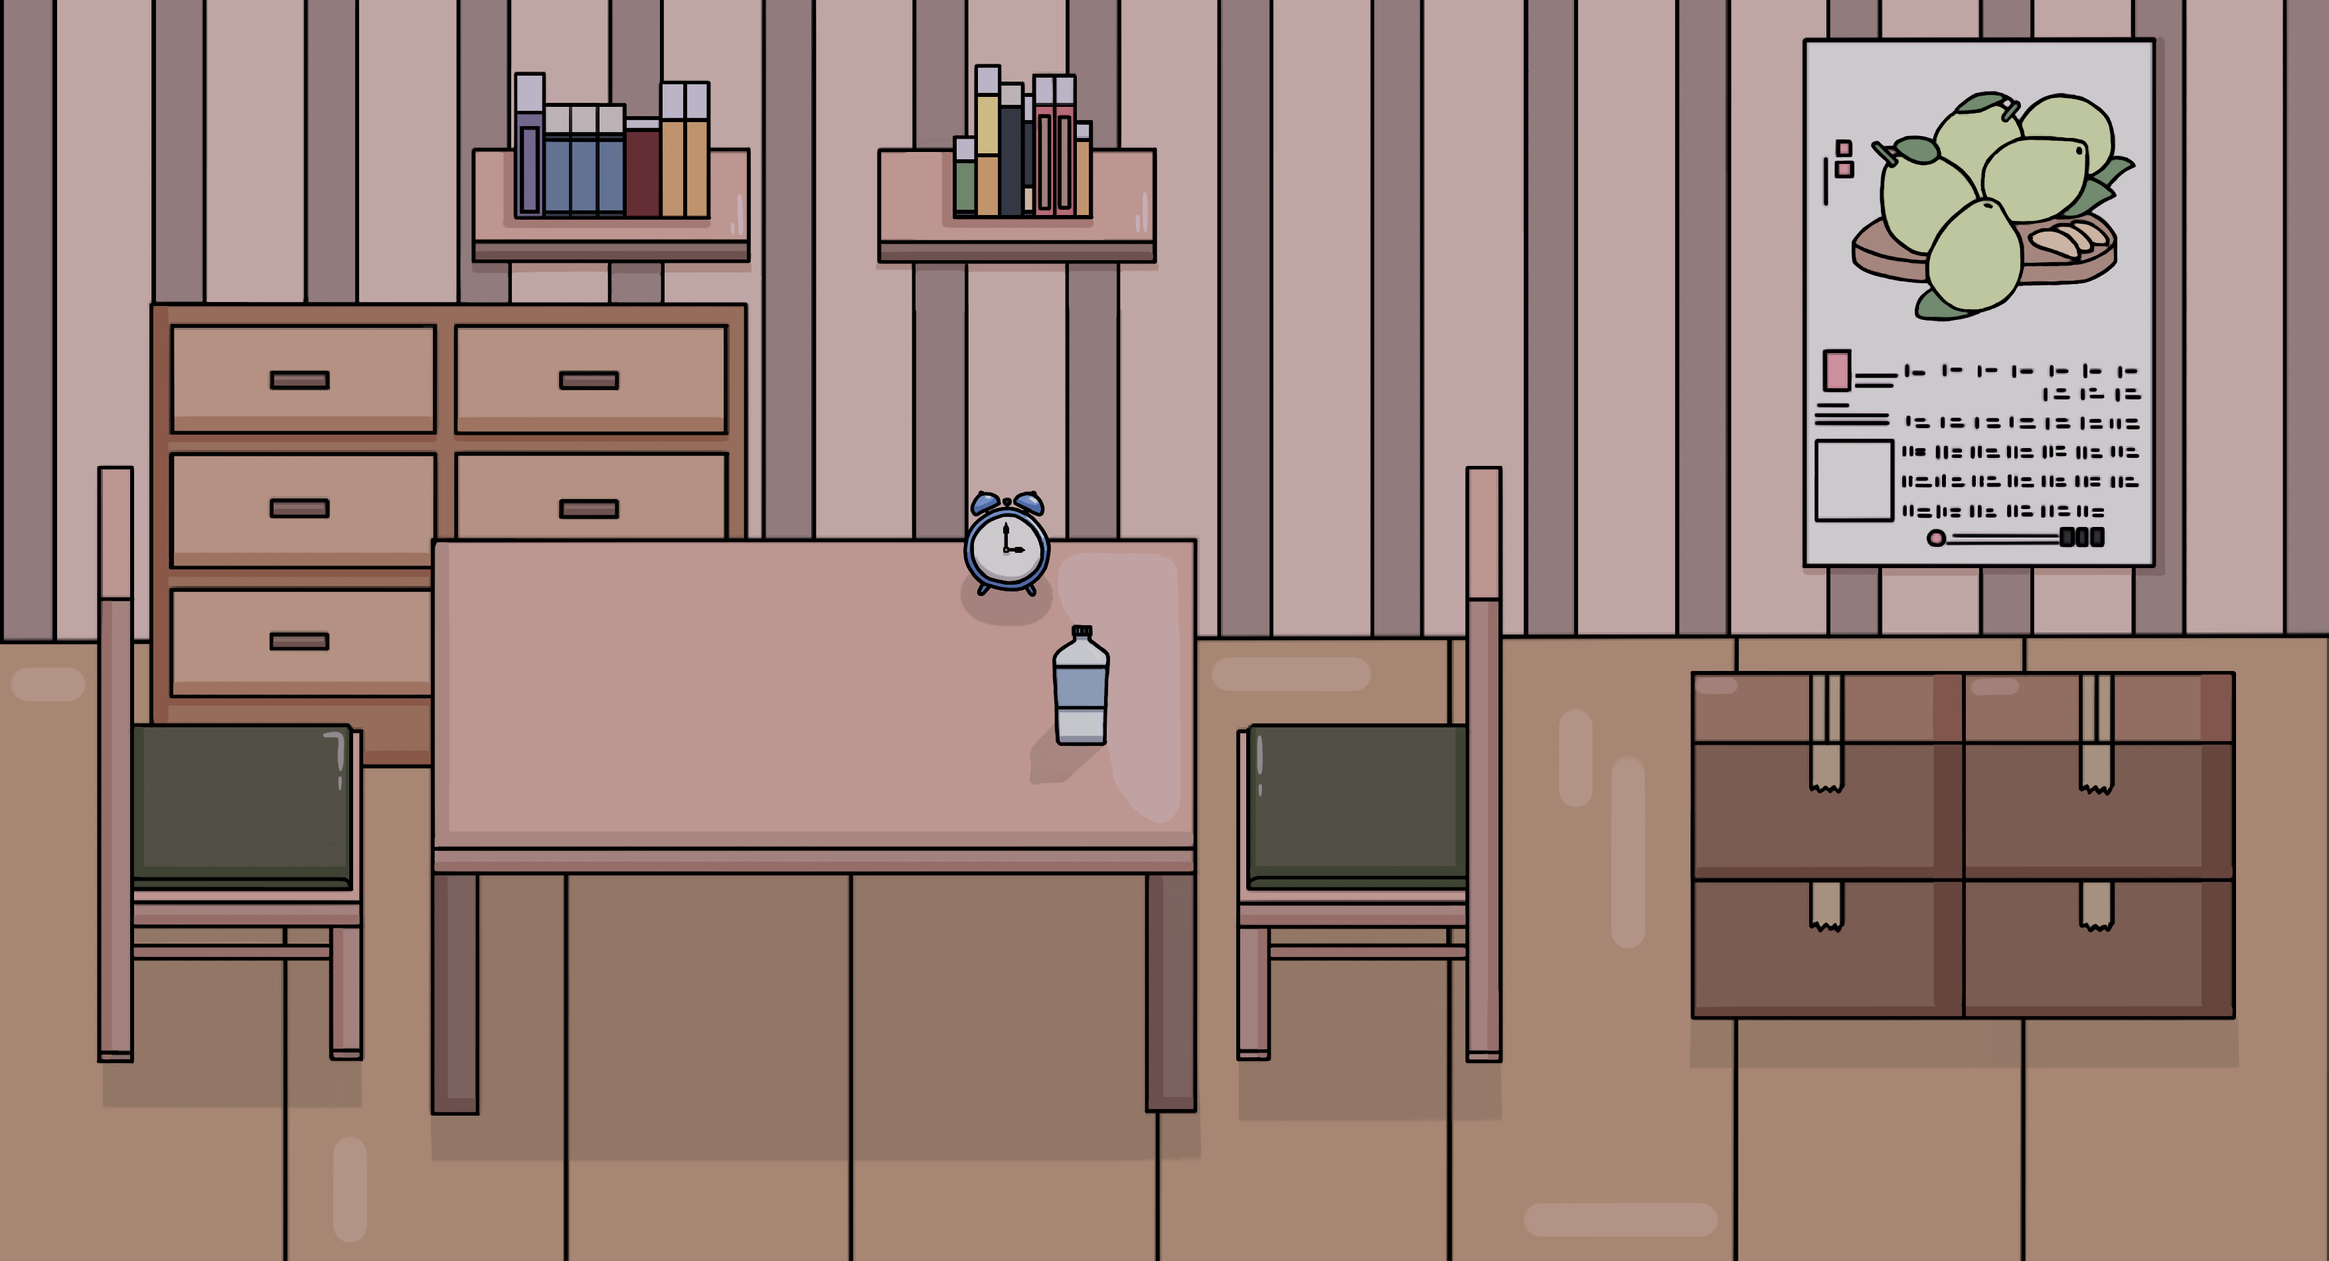
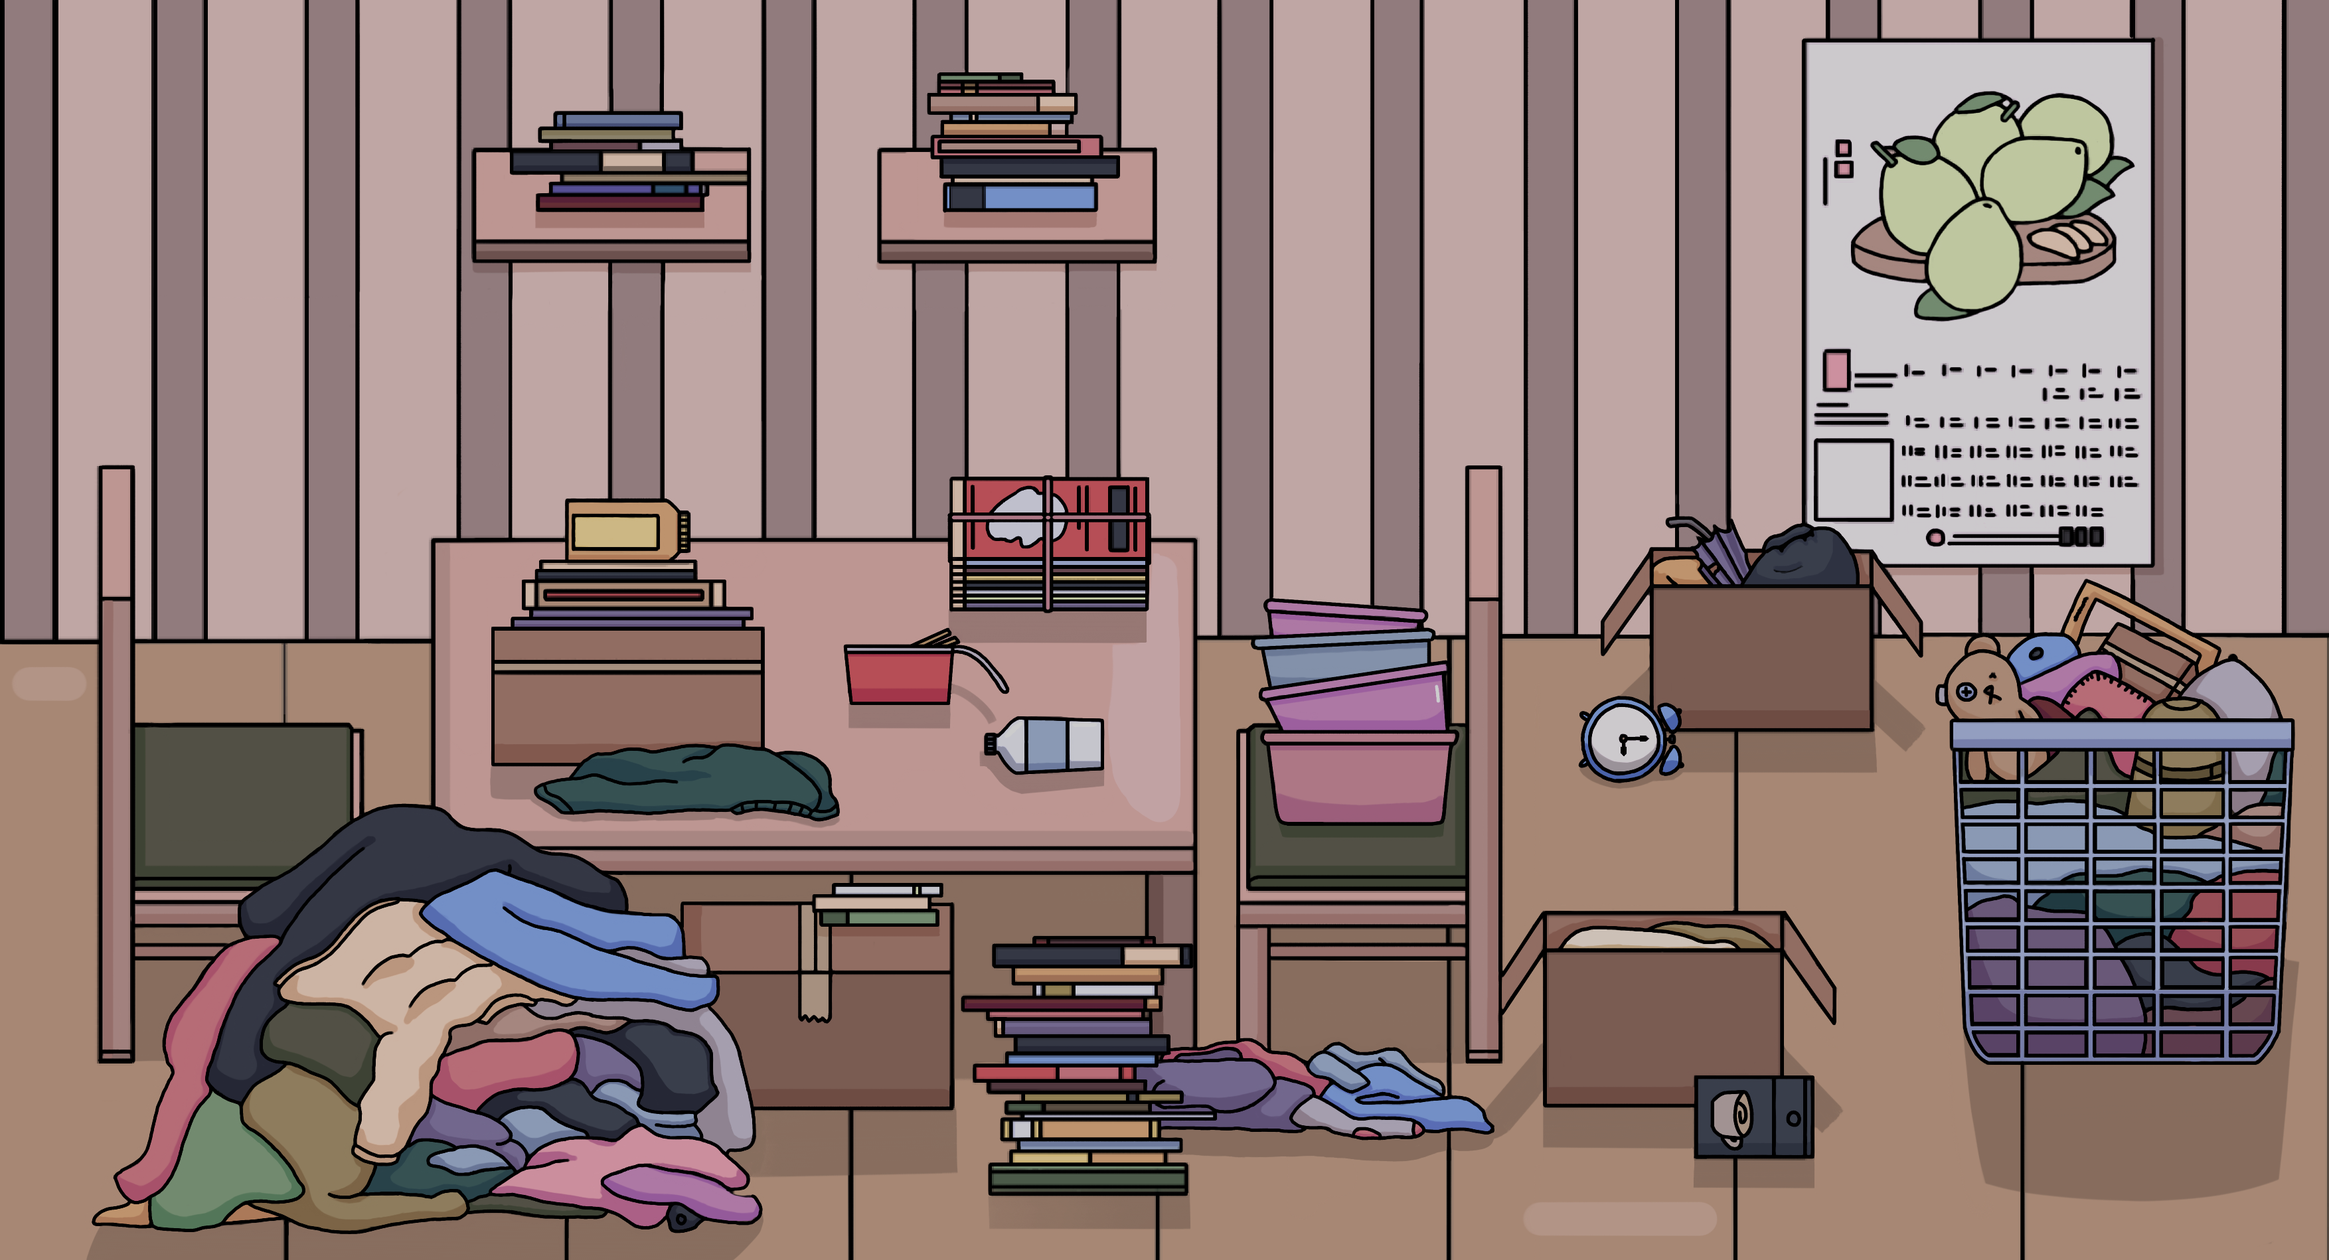
0508 05:04

diff --git a/js/eventListener.js b/js/eventListener.js
@@ -167,6 +167,26 @@ canvas.addEventListener('mousemove', (e)=>{
             }
         })
     }
+    if(roomOpen.hoard && isRoomOpen){
+        hoards.some(hoard=>{
+            if(!hoard.enlarge) return
+            if(x >= hoard.position.x && x<=hoard.position.x+hoard.width && y>=hoard.position.y && y<=hoard.position.y + hoard.height){
+                hoard.width = hoard.bigWidth
+                hoard.height = hoard.bigHeight
+                if((!hoard.image.src.includes('_.png')) && hoard.talk){
+                    hoard.image.src = hoard.image.src.replace('.png', '_.png')
+                }
+
+                return canvas.style.cursor = "pointer"
+            }
+            hoard.width = hoard.oldWidth
+            hoard.height = hoard.oldHeight
+            canvas.style.cursor = "default"
+            if(hoard.image.src.includes('_.png')){
+                hoard.image.src = hoard.image.src.replace('_.png', '.png')
+            }
+        })
+    }
     
     if(isDragging && roomOpen.occupy && isRoomOpen){
         occupys[mousedownIdx].position.x = e.offsetX + differX
@@ -286,6 +306,30 @@ const coolTimer = {
     timer10:null,
     timer11:null,
     timer12:null,
+}
+
+const hoardObject = {
+    talk1: hoards.filter(hoard=>hoard.name === '1')[0],
+    talk1Chk: true,
+    talk2: hoards.filter(hoard=>hoard.name === '2')[0],
+    talk2Chk: false,
+    s1: hoards.filter(hoard=>hoard.name === 's1')[0],
+    a1: hoards.filter(hoard=>hoard.name === 'a1')[0],
+    b1: hoards.filter(hoard=>hoard.name === 'b1')[0],
+    c1: hoards.filter(hoard=>hoard.name === 'c1')[0],
+    d1: hoards.filter(hoard=>hoard.name === 'd1')[0],
+    e1: hoards.filter(hoard=>hoard.name === 'e1')[0],
+    f1: hoards.filter(hoard=>hoard.name === 'f1')[0],
+    g1: hoards.filter(hoard=>hoard.name === 'g1')[0],
+    h1: hoards.filter(hoard=>hoard.name === 'h1')[0],
+
+    removeInterObj: false,
+
+    hold: hoards.filter(hoard=>hoard.name === 'hold')[0],
+    smallPeople: hoards.filter(hoard=>hoard.name === 'smallPeople')[0],
+
+    chk: hoards.filter(hoard=>hoard.name === 'chk')[0],
+
 }
 canvas.addEventListener('click', (e)=>{
     if(!isStart) return
@@ -838,6 +882,135 @@ canvas.addEventListener('click', (e)=>{
         }
         
     }
+    if(roomOpen.hoard && isRoomOpen){
+        if(hoardObject.talk1.show && hoardObject.talk1Chk){
+            if(!hoardObject.talk1Chk) return
+            if(x>=hoardObject.talk1.position.x && x<=hoardObject.talk1.position.x + hoardObject.talk1.width && y>=hoardObject.talk1.position.y && y<=hoardObject.talk1.position.y+hoardObject.talk1.height){
+                hoardObject.talk1Chk = false
+                hoardObject.talk1.show = false
+                hoardObject.talk1.enlarge = false
+
+                setTimeout(()=>{
+                    hoardObject.talk2.show = true
+                    hoardObject.chk.show = true
+                    hoardObject.chk.enlarge = true
+                    hoardObject.talk2Chk = true
+                }, 50)
+            }
+        }
+        if(hoardObject.talk2.show && hoardObject.talk2Chk){
+            if(!hoardObject.talk2Chk) return
+            if(x>=hoardObject.chk.position.x && x<=hoardObject.chk.position.x + hoardObject.chk.width && y>=hoardObject.chk.position.y && y<=hoardObject.chk.position.y+hoardObject.chk.height){
+                hoardObject.talk2Chk = false
+                hoardObject.talk2.show = false
+                hoardObject.chk.show = false
+                hoardObject.chk.enlarge = false
+
+                setTimeout(()=>{
+                    hoardObject.h1.enlarge = true
+                    hoardObject.removeInterObj = true
+                }, 50)
+            }
+        }
+        if(hoardObject.removeInterObj){
+            if(hoardObject.removeInterObj && hoardObject.s1.show && hoardObject.s1.enlarge){
+                if(x>=hoardObject.s1.position.x && x<=hoardObject.s1.position.x + hoardObject.s1.width && y>=hoardObject.s1.position.y && y<=hoardObject.s1.position.y+hoardObject.s1.height){
+                    hoardObject.removeInterObj = false
+
+                    hoardObject.s1.show = false
+                    hoardObject.s1.enlarge = false
+                    
+                    hoardObject.hold.show = false
+                    hoardObject.hold.enlarge = false
+                    setTimeout(()=>{
+                        console.log('finish!!!');
+                        hoardObject.smallPeople.show = true
+                    }, 10)
+                }
+            }
+            if(hoardObject.removeInterObj && hoardObject.a1.show && hoardObject.a1.enlarge){
+                if(x>=hoardObject.a1.position.x && x<=hoardObject.a1.position.x + hoardObject.a1.width && y>=hoardObject.a1.position.y && y<=hoardObject.a1.position.y+hoardObject.a1.height){
+                    hoardObject.a1.show = false
+                    hoardObject.a1.enlarge = false
+                    setTimeout(()=>{
+                        hoardObject.s1.enlarge = true
+                    }, 10)
+                }
+            }
+            if(hoardObject.removeInterObj && hoardObject.b1.show && hoardObject.b1.enlarge){
+                if(x>=hoardObject.b1.position.x && x<=hoardObject.b1.position.x + hoardObject.b1.width && y>=hoardObject.b1.position.y && y<=hoardObject.b1.position.y+hoardObject.b1.height){
+                    hoardObject.b1.show = false
+                    hoardObject.b1.enlarge = false
+    
+                    setTimeout(()=>{
+                        hoardObject.a1.enlarge = true
+                    }, 50)
+                }
+            }
+            if(hoardObject.removeInterObj && hoardObject.c1.show && hoardObject.c1.enlarge){
+                if(x>=hoardObject.c1.position.x && x<=hoardObject.c1.position.x + hoardObject.c1.width && y>=hoardObject.c1.position.y && y<=hoardObject.c1.position.y+hoardObject.c1.height){
+                    hoardObject.c1.show = false
+                    hoardObject.c1.enlarge = false
+    
+                    setTimeout(()=>{
+                        hoardObject.b1.enlarge = true
+                    }, 50)
+                }
+            }
+            if(hoardObject.removeInterObj && hoardObject.d1.show && hoardObject.d1.enlarge){
+                if(x>=hoardObject.d1.position.x && x<=hoardObject.d1.position.x + hoardObject.d1.width && y>=hoardObject.d1.position.y && y<=hoardObject.d1.position.y+hoardObject.d1.height){
+                    hoardObject.d1.show = false
+                    hoardObject.d1.enlarge = false
+    
+                    setTimeout(()=>{
+                        hoardObject.c1.enlarge = true
+                    }, 50)
+                }
+            }
+            if(hoardObject.removeInterObj && hoardObject.e1.show && hoardObject.e1.enlarge){
+                if(x>=hoardObject.e1.position.x && x<=hoardObject.e1.position.x + hoardObject.e1.width && y>=hoardObject.e1.position.y && y<=hoardObject.e1.position.y+hoardObject.e1.height){
+                    hoardObject.e1.show = false
+                    hoardObject.e1.enlarge = false
+    
+                    setTimeout(()=>{
+                        hoardObject.d1.enlarge = true
+                    }, 50)
+                }
+            }
+            if(hoardObject.removeInterObj && hoardObject.f1.show && hoardObject.f1.enlarge){
+                if(x>=hoardObject.f1.position.x && x<=hoardObject.f1.position.x + hoardObject.f1.width && y>=hoardObject.f1.position.y && y<=hoardObject.f1.position.y+hoardObject.f1.height){
+                    hoardObject.f1.show = false
+                    hoardObject.f1.enlarge = false
+    
+                    setTimeout(()=>{
+                        hoardObject.e1.enlarge = true
+                    }, 50)
+                }
+            }
+            if(hoardObject.removeInterObj && hoardObject.g1.show && hoardObject.g1.enlarge){
+                if(x>=hoardObject.g1.position.x && x<=hoardObject.g1.position.x + hoardObject.g1.width && y>=hoardObject.g1.position.y && y<=hoardObject.g1.position.y+hoardObject.g1.height){
+                    hoardObject.g1.show = false
+                    hoardObject.g1.enlarge = false
+    
+                    setTimeout(()=>{
+                        hoardObject.f1.enlarge = true
+                    }, 50)
+                }
+            }
+            if(hoardObject.removeInterObj && hoardObject.h1.show && hoardObject.h1.enlarge ){
+                if(x>=hoardObject.h1.position.x && x<=hoardObject.h1.position.x + hoardObject.h1.width && y>=hoardObject.h1.position.y && y<=hoardObject.h1.position.y+hoardObject.h1.height){
+                    hoardObject.h1.show = false
+                    hoardObject.h1.enlarge = false
+    
+                    setTimeout(()=>{
+                        hoardObject.g1.enlarge = true
+                    }, 50)
+                }
+            }
+            
+        }
+        
+    }
     interactions.forEach(interaction=>{
         let bool = x >= interaction.position.x && x <= interaction.position.x + interaction.width && y>=interaction.position.y && y<=interaction.position.y + interaction.height
         if(!bool) return
@@ -889,25 +1062,28 @@ canvas.addEventListener('click', (e)=>{
                 starts.filter(start=> start.name === 'start02' )[0].show = true
                 setTimeout(()=>{
                     globalClick = true
+                    starts.filter(start=> start.name === 'chk2' )[0].show = true
+                    starts.filter(start=> start.name === 'chk2' )[0].enlarge = true
                     starts.filter(start=> start.name === 'skip' )[0].show = true
                     starts.filter(start=> start.name === 'skip' )[0].enlarge = true
                 }, 100)
-
-
             }
         
         })
     }
     if(startNav){
         if(startNav && globalClick && starts.filter(start=> start.name === 'start02' )[0].show ){
-            let skip = starts.filter(start=> start.name === 'skip' )[0]
-            let bool = x >= skip.position.x && x <= skip.position.x + skip.width && y>=skip.position.y && y<=skip.position.y + skip.height
-            if(!bool){
+            let chk = starts.filter(start=> start.name === 'chk2' )[0]
+            let bool = x >= chk.position.x && x <= chk.position.x + chk.width && y>=chk.position.y && y<=chk.position.y + chk.height
+            if(bool){
                 globalClick = false
                 starts.filter(start=> start.name === 'start02' )[0].show = false
                 starts.filter(start=> start.name === 'skip' )[0].show = false
                 starts.filter(start=> start.name === 'skip' )[0].enlarge = false
-        
+
+                starts.filter(start=> start.name === 'chk2' )[0].show = false
+                starts.filter(start=> start.name === 'chk2' )[0].enlarge = false
+
                 starts.filter(start=> start.name === 'start03' )[0].show = true
                 setTimeout(()=>{
                     globalClick = true

diff --git a/index.js b/index.js
@@ -69,6 +69,7 @@ const starts = [
     new Interaction({x:2650+6110/13 - 80, y:330+1641/13-75, w:112/2, h:68/2, name:'start01Btn',image: createImage('./images/buttons/chk.png'), multiple:1.05, isShow:false, isEnlarge:true  }),
     new Interaction({x:2650, y:330, w:6110/13, h:1641/13, name:'start02',image: createImage('./images/starts/talk/02.png'), multiple:1, isShow:false  }),
     new Interaction({x:2650+6110/13 - 80, y:380, w:333/6, h:202/6, name:'skip',image: createImage('./images/buttons/Skip.png'), isEnlarge: false, multiple:1.05, isShow:false  }),
+    new Interaction({x:2650+6110/13 - 80 - 333/6 -20, y:380, w:333/6, h:202/6, name:'chk2',image: createImage('./images/buttons/chk.png'), isEnlarge: false, multiple:1.05, isShow:false  }),
     new Interaction({x:2650, y:330, w:6110/13, h:1641/13, name:'start03',image: createImage('./images/starts/talk/03.png'), multiple:1, isShow:false  }),
     new Interaction({x:2650, y:330, w:6110/13, h:1641/13, name:'start04',image: createImage('./images/starts/talk/04.png'), multiple:1, isShow:false  }),
     new Interaction({x:3100, y:330, w:3318/13, h:1639/13, name:'start05',image: createImage('./images/starts/talk/05.png'), multiple:1, isShow:false  }),
@@ -156,6 +157,43 @@ const occupys = [
 
 
     new Shared({x:canvas.width/2 - (398/1)/2 , y:canvas.height/2 - (232/1)/2  , w:398/1, h:232/1, image: createImage('./images/goodend.png'), isEnlarge:false, multiple:1, name:'end', isShow:false,}),
+
+]
+
+const hoards = [
+    new Shared({x:891, y:549, w:508/2.93, h:372/2.93, image: createImage('./images/hoards/inter/1.png'),}),
+    new Shared({x:373, y:324, w:990/2.9, h:519/2.9, image: createImage('./images/hoards/inter/2.png'),}),
+    new Shared({x:757, y:385, w:312/2.7, h:341/2.7, image: createImage('./images/hoards/inter/3.png'),}),
+    new Shared({x:1107, y:375, w:540/2.8, h:730/2.8, image: createImage('./images/hoards/inter/4.png'),}),
+    new Shared({x:160, y:490, w:1295/2.85, h:647/2.85, image: createImage('./images/hoards/inter/5.png'),}),
+    new Shared({x:615, y:562, w:802/2.9, h:391/2.9, image: createImage('./images/hoards/inter/6.png'),}),
+    new Shared({x:932, y:346, w:518/2.9, h:400/2.9, image: createImage('./images/hoards/inter/7.png'),}),
+    new Shared({x:380, y:117, w:919/2.9, h:208/2.9, image: createImage('./images/hoards/inter/8.png'),}),
+    new Shared({x:765, y:420, w:753/1.8, h:450/1.8, image: createImage('./images/hoards/hold.png'), name:"hold"}),
+
+
+
+    new Shared({x:865, y:490, w:391/2, h:209/2, image: createImage('./images/hoards/s1.png'), name:'s1', isEnlarge:false, multiple:1.05, }),
+    new Shared({x:1050, y:590, w:177/1.3, h:135/1.3, image: createImage('./images/hoards/a1.png'), name:'a1', isEnlarge:false, multiple:1.05, }),
+    new Shared({x:760, y:605, w:222, h:61, image: createImage('./images/hoards/b1.png'), name:'b1', isEnlarge:false, multiple:1.05, }),
+    new Shared({x:930, y:560, w:257/1.6, h:234/1.6, image: createImage('./images/hoards/c1.png'), name:'c1', isEnlarge:false, multiple:1.05}),
+    new Shared({x:865, y:625, w:99, h:72, image: createImage('./images/hoards/d1.png'), name:'d1', isEnlarge:false, multiple:1.05}),
+    new Shared({x:825, y:555, w:222/1.1, h:61/1.1, image: createImage('./images/hoards/e1.png'), name:'e1', isEnlarge:false, multiple:1.05}),
+    new Shared({x:1000, y:460, w:259/1.6, h:256/1.6, image: createImage('./images/hoards/f1.png'), name:'f1', isEnlarge:false, multiple:1.05}),
+    new Shared({x:940, y:480, w:165/1.8, h:198/1.8, image: createImage('./images/hoards/g1.png'), name:'g1', isEnlarge:false, multiple:1.05}),
+    new Shared({x:880, y:550, w:69/1.1, h:33/1.1, image: createImage('./images/hoards/h1.png'), name:'h1', isEnlarge:false, multiple:1.05}),
+
+
+    new Shared({x:380, y:420, w:2378/5, h:639/5, image: createImage('./images/hoards/talk/1.png'), isTalk:false, isEnlarge:true, multiple:1.02, name:'1'}),
+    new Shared({x:canvas.width/2 - (3149/4.5)/2, y:canvas.height/2 - (484/4.5)/2, w:3149/4.5, h:484/4.5, image: createImage('./images/hoards/talk/2.png'), isTalk:true, isEnlarge:false, multiple:1, name:'2', isShow:false ,}),
+
+
+    new Shared({x:840, y:300, w:393/1.9, h:749/1.9, image: createImage('./images/hoards/people1.png'), name:"smallPeople", isEnlarge:false, isShow:false, multiple:1}),
+
+
+    new Shared({x:canvas.width/2 - (112/2)/2 + 300, y:canvas.height/2 - (68/2)/2 + 20, w:112/2, h:68/2, image: createImage('./images/buttons/chk.png'), isEnlarge:false, multiple:1, name:'chk', isShow:false ,}),
+
+
 
 ]
 const buttons = {
@@ -335,11 +373,11 @@ function animate(){
         c.fillRect(0,0,canvas.width, canvas.height)
         hoard.draw()
         buttons.close.draw()
-        // hoards.forEach(hoard=>{
-        //     if(hoard.show){
-        //         hoard.draw()
-        //     }
-        // })
+        hoards.forEach(hoard=>{
+            if(hoard.show){
+                hoard.draw()
+            }
+        })
     }
 
     // if(isTeaching && getOff){

diff --git a/js/Sprite.js b/js/Sprite.js
@@ -130,7 +130,7 @@ class Bus{
 }
 
 class Shared{
-    constructor({x, y, w, h, image, isPeople=false, isEnlarge=false, isShow=true, isTalk=false,multiple=1.1, name=null, text="", color="#000", isTypewriter=false}){
+    constructor({x, y, w, h, image, isPeople=false, isEnlarge=false, isShow=true, isTalk=false,multiple=1.1, name=null, text="", color="#000", isTypewriter=false,}){
         this.oldPosition = {
             x, y
         },
@@ -177,8 +177,9 @@ class Shared{
     }
     draw(){
         if(!this.loaded) return
+      
         c.drawImage(this.image, this.position.x, this.position.y, this.width, this.height)
-        
+      
         if(!this.talk) return
         
         if(this.isTypewriter){
